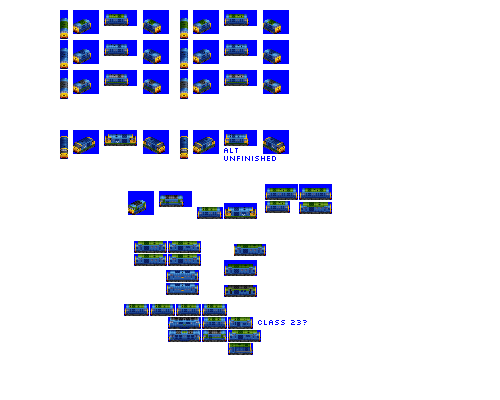
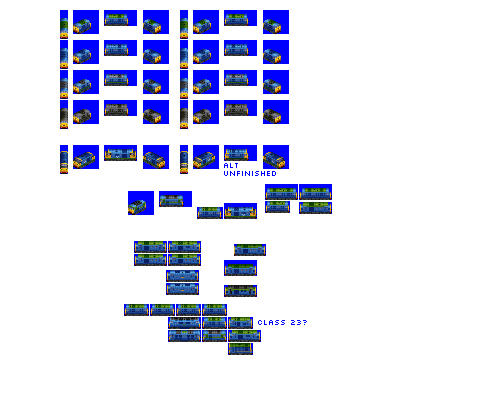
Change: additional liveries for Foxhound, Stag, Decapod

Changed region(s): [[0.12, 0.24, 0.6, 0.45]]

diff --git a/src/vehicles/pony/foxhound.py b/src/vehicles/pony/foxhound.py
@@ -18,7 +18,7 @@ def main(**kwargs):
         fixed_run_cost_points=140,  # substantial cost bonus as a mixed traffic engine
         intro_year_offset=-2,  # let's not have everything turn up in 1960
         gen=4,
-        liveries=["CONVENTIONAL_WISDOM", "BANGER_BLUE", "CLASSIC_LINES"],
+        liveries=["CONVENTIONAL_WISDOM", "BANGER_BLUE", "CLASSIC_LINES", "FREIGHT_BLACK"],
         sprites_complete=True,
     )
 

diff --git a/src/vehicles/pony/stag.py b/src/vehicles/pony/stag.py
@@ -19,7 +19,7 @@ def main(**kwargs):
         tractive_effort_coefficient=0.2,
         fixed_run_cost_points=120,  # substantial cost bonus so it can make money
         random_reverse=True,
-        liveries=["CONVENTIONAL_WISDOM", "BANGER_BLUE", "STOCK_STANDARD"],
+        liveries=["CONVENTIONAL_WISDOM", "BANGER_BLUE", "STOCK_STANDARD", "FREIGHT_BLACK"],
         sprites_complete=True,
     )
 

diff --git a/src/vehicles/pony/decapod.py b/src/vehicles/pony/decapod.py
@@ -20,7 +20,7 @@ def main(**kwargs):
         tractive_effort_coefficient=0.2,
         fixed_run_cost_points=120,  # substantial cost bonus so it can make money
         random_reverse=True,
-        liveries=["CONVENTIONAL_WISDOM", "BANGER_BLUE"],
+        liveries=["CONVENTIONAL_WISDOM", "BANGER_BLUE", "FREIGHT_BLACK"],
         sprites_complete=True,
     )
 

diff --git a/bin/company_colour_remaps.py b/bin/company_colour_remaps.py
@@ -9,8 +9,9 @@ from polar_fox import graphics_units
 # requires a tmp dir to exist, which should be gitignored
 # set the filename
 input_filenames = [
-    "spinner",
-    "carrack",
+    "decapod",
+    "stag",
+    "foxhound",
 ]
 
 CC1 = 198
